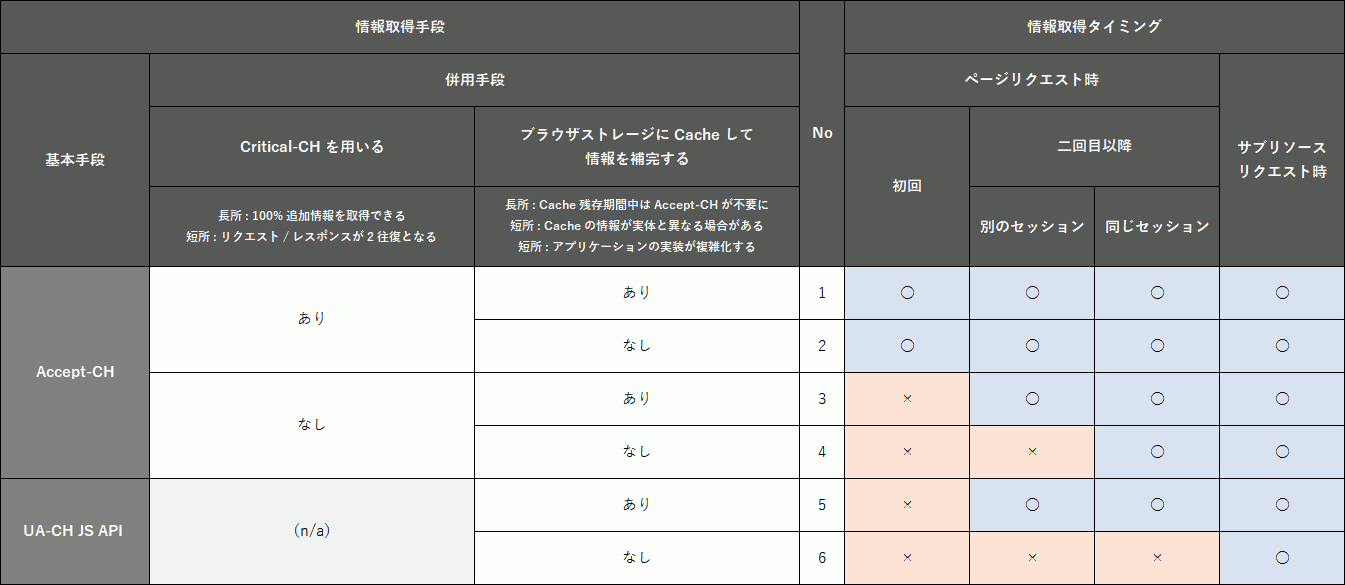
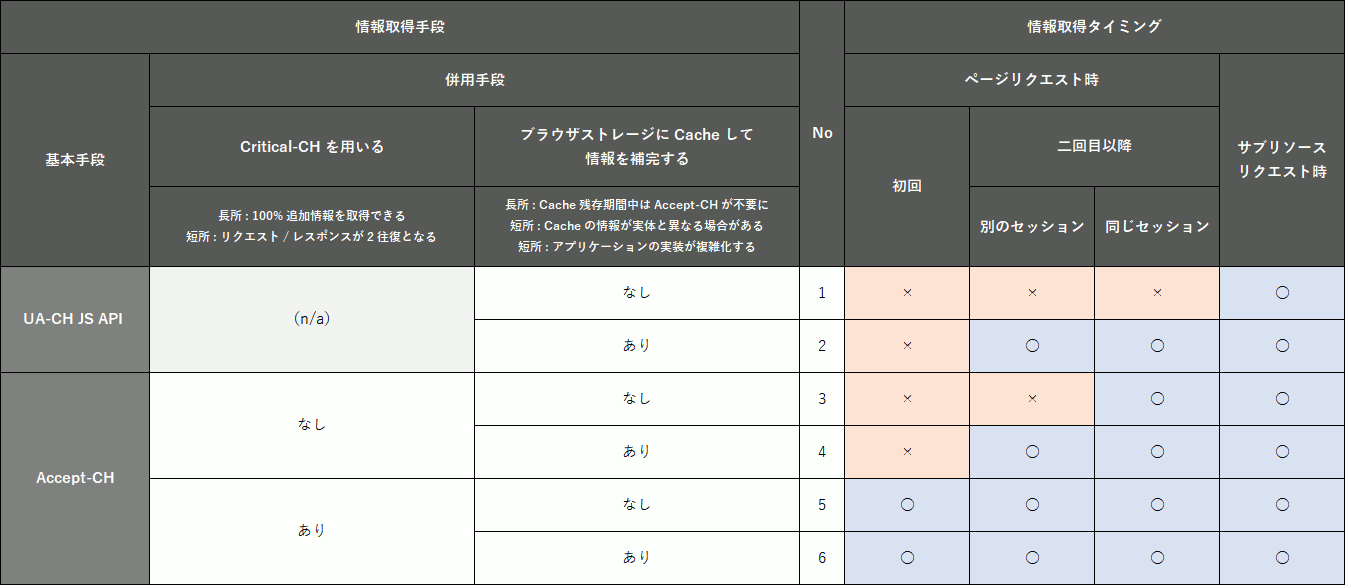
updated

diff --git a/UA-CH/readme.md b/UA-CH/readme.md
@@ -72,9 +72,9 @@ User-Agent: Mozilla/5.0 (Windows NT 6.3; Win64; x64) AppleWebKit/537.36 (KHTML, 
 
 ## User Agent Client Hints（UA-CH）とは何か
 
-我々はこの影響を甘んじで受け入れる他はないのでしょうか。
+我々はこの影響を甘んじで受け入れざるを得ないのでしょうか。
 
-ブラウザはサーバに対して以下のような「[User Agent Client Hints（以降 UA-CH）](https://github.com/WICG/ua-client-hints)」をリクエストヘッダとして送信しますが、結論としてはこの UA-CH を活用することで影響の最小化を検討することになります。
+ブラウザはサーバに対して以下のような「[User Agent Client Hints（以降 UA-CH）](https://github.com/WICG/ua-client-hints)」をリクエストヘッダとして送信しておりますが、結論としてはこの UA-CH を活用することで影響を最小化することができます。
 
 ```
 sec-ch-ua: "Chromium";v="106", "Google Chrome";v="106", "Not;A=Brand";v="99"
@@ -82,52 +82,50 @@ sec-ch-ua-mobile: ?0
 sec-ch-ua-platform: "Windows"
 ```
 
-ただし、この UA-CH はそのままでは User-Agent 文字列の ***deviceModel*** などに相当する情報を得ることができないため、Accept-CH や UA-CH JS API などの手段が必要になります。そのことについてまとめたのが下の表です。
+ただし、この UA-CH はそのままでは User-Agent 文字列の ***deviceModel*** などに相当する情報を得ることができないため、
+
+- サーバが追加情報の送信を要求する Accept-CH をレスポンスヘッダとして送信する
+- ブラウザ側で UA-CH JS API を用いて追加情報を取得する
+
+などの手段が必要になります。そのことについてまとめたのがこちらの表です。
 
 <img src='https://raw.githubusercontent.com/nakayama-kazuki/202x/main/UA-CH/i06.png' />
 
+では、それぞれの選択肢について考察してみましょう。
 
+#### 1. UA-CH JS API
 
+既存の Web アプリケーションが navigator オブジェクトから情報を取得している場合には移行しやすい方法です。一方で、将来 [Privacy Budget（取得可能なデータ量に制限を設ける仕様）](https://developer.chrome.com/docs/privacy-sandbox/privacy-budget/) が導入されたタイミングで影響が生じやすいと思われるため、その際の対応を想定しておく必要がありそうです。
 
+```
+navigator.userAgentData.getHighEntropyValues(['model']).then(ua => {
+    const model = ua.model
+});
+```
 
-タイミングによっては欲しい情報を得られない
-100% 情報取得するとパフォーマンスが犠牲になる
-将来のプライバシー対策の影響を受ける可能性がある
-ブラウザ互換性の維持
-サブリソースとサブドメイン
+#### 2. UA-CH JS API x Cache
 
+取得した追加情報を Cookie に Cache することで Privacy Budget の制限抵触リスクを低くすることができます。
 
-となりますが Web アプリケーションの動作を担保するためにはさらに幾つか検討すべきことがあります。
+#### 3. Accept-CH
 
-- 入手できる情報
-- 入手できるタイミング
-- 入手できるサービス
-- 将来のリスク
+既存の Web アプリケーションが HTTP の User-Agent 文字列から情報を取得している場合には移行しやすい方法です。課題は 1 同様に将来の Privacy Budget 対応が必要なことと、初回ページリクエストのタイミングに機会損失が発生することです。
 
-列挙した観点について User-Agent 文字列の時代と仕様が異なるため、個別に対応方法を検討しましょう。
+```
+Accept-CH: Sec-CH-UA-Model
+```
 
-#### 入手できる情報
+#### 4. Accept-CH x Cache
 
-Sec-CH-UA
-Sec-CH-UA-Mobile
-Sec-CH-UA-Platform
+取得した追加情報を Cookie に Cache し、フォールバックを UA-CH → Cache → User-Agent 文字列 … の順で処理することで機会損失を最小化し、Privacy Budget の制限抵触リスクを低くすることができます。フォールバック処理については [Migrate to User-Agent Client Hints](https://web.dev/migrate-to-ua-ch/) の記載も参考にしてください。
 
-Sec-CH-UA-Model
+> When processing this on the server-side you should first check if the desired Sec-CH-UA header has been sent and then fallback to the User-Agent header parsing if it is not available.
 
+#### 5. Accept-CH x Critical-CH
 
-#### 入手できるタイミング
+Critical-CH を使うことで機会損失を 0 にできますが、この設定ではセッションをまたいだ初回アクセス時にリクエスト + レスポンスが二往復することになるため、アクセスの多い Web アプリケーションの場合は避けたい設定です。
 
-# ハイエントロピー API
+#### 6. Accept-CH x Critical-CH x Cache
 
-https://web.dev/migrate-to-ua-ch/
-
-When processing this on the server-side you should first check if the desired Sec-CH-UA header has been sent and then fallback to the User-Agent header parsing if it is not available.
-
-Cookie も含めたフォールバック
-
-#### 入手できるサービス
-
-ページ、サブリソース
-
-#### 将来のリスク
+取得した追加情報を Cookie に Cache することで 5 の課題を概ね解消できます。が、プライベートブラウジングが多い場合には課題が継続します。とはいえ、機会損失最小化の優先度が高い場合には現実解となりそうです。
 
